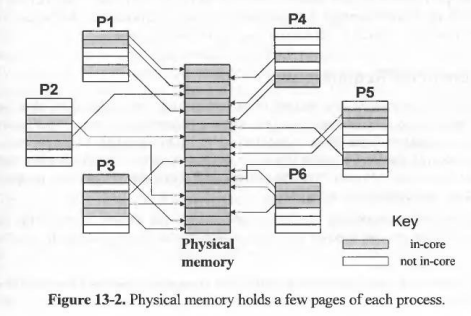
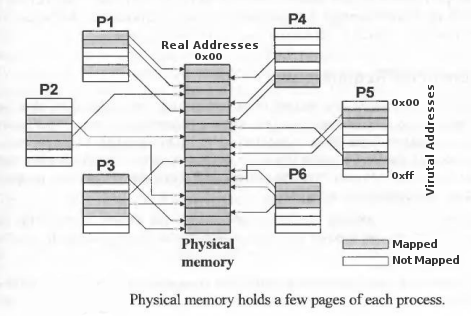
07: Incorporate captain Walzthöni's feedback

diff --git a/07_where_goes_my_stuff/README.md b/07_where_goes_my_stuff/README.md
@@ -1,4 +1,4 @@
-# Where goes my Stuff?!
+# Where goes my Stuff ?!
 
 In the previous section we learned about functions and recursion. Before we
 advance with C programming, I'd like to tell you about how a program deals with
@@ -9,15 +9,15 @@ take short peek behind the scenes.
 
 A modern operating system abstracts away the *real* (physical) memory from a
 running program (process). Each program sees only his own memory image. This
-happens because memory for a program is *virtualized* by the operation system.
-Programs are isolated from each other.
+happens because memory used by each program is *virtualized* by the operation
+system. Programs are isolated from each other.
 
 Later, when talking about *pointers* we'll learn how to address certain
 locations in memory. All addresses we encounter are virtual, specific to the
-currently running program and are translated by your operating system (together
-with the memory management unit MMU) to physical memory addresses. Ideally this
-is completely transparent, meaning you won't even notice until you start
-looking for it.
+currently running program, and are translated by your operating system
+(together with the memory management unit MMU) to physical memory addresses.
+Ideally this is completely transparent, meaning you won't even notice until you
+start looking for it.
 
 While each byte in memory can be addressed, not every byte gets a *mapping*
 from physical memory to virtual memory. Physical memory is divided into evenly
@@ -28,10 +28,10 @@ program. This makes memory management and the translation process much easier.
   <img alt="Paging" src="gfx/paging.png" />
 </p>
 
-Above figure[1] shows physical memory divided into pages. Multiple programs
-(processes) P1--P6 have some pages mapped to their virtual memory. A program
-can store data only inside these areas, accessing unmapped memory is not
-allowed.
+Above figure (modified, original from [1]) shows an example of physical memory
+divided into pages. Multiple programs (processes) P1--P6 have some pages mapped
+to their virtual memory. A program can store data only inside these areas,
+accessing unmapped memory is not allowed.
 
 [1]: Unix Internals by Uresh Vahalia
 
@@ -39,21 +39,28 @@ allowed.
 
 ### `.text`
 
-When a program is started, one essential part is loading the actual program,
-the compiled code which will be executed by the system, into memory. The
-section of memory holding this data (instructions) is referred to as the
-`.text` section. As mentioned, it is one of the first thing which gets loaded
-and usually is not altered during runtime of the program.
+When you compile a program from source, you receive a *runable* binary. This
+binary contains the compiled code, data and a few other things. Upon running
+this binary (aka starting the program) a part of your operating system (the
+loader) loads relevant parts of that binary file into memory.
+
+The section containing the compiled code, is referred to as the `.text`
+section. It contains the instructions which will be executed by your system.
 
 ### Stack
 
-This one is more complicated --- the stack is required to properly call and
-return from functions. Each call of a function corresponds to a small chunk of
-data (stack frame) containing argument values, local variables together with
-some bookkeeping (saved return address, saved base pointer). Stack frames are
-put on top of each other for each consecutive call. If a function returns the
-stack frame is remove from the top of the stack. Following figure illustrates a
-stack with mutliple frames.
+This one is a little more complicated --- the stack is a data structure used to
+properly call and return from functions. It is located in memory and consists
+of a sequence of so-called *stack frames*. Each stack frame corresponds to a
+function call and contains argument values, local variables together with some
+bookkeeping (saved return address, saved base pointer).
+
+Stack frames are put on top of each other (hence the name *stack*) for each
+consecutive call. One could say *a new frame is pushed onto the stack*. When a
+function returns the stack frame is removed from the top of the stack. Also
+known as *popping a frame of the stack*.
+
+Following figure illustrates a stack with multiple frames:
 
 <p align="center">
   <img alt="Stack Frames" src="gfx/stackframes.png" width="65%" />
